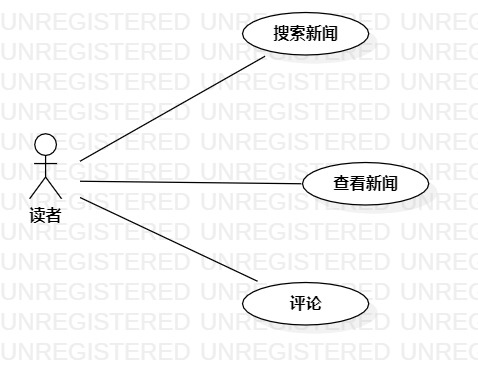
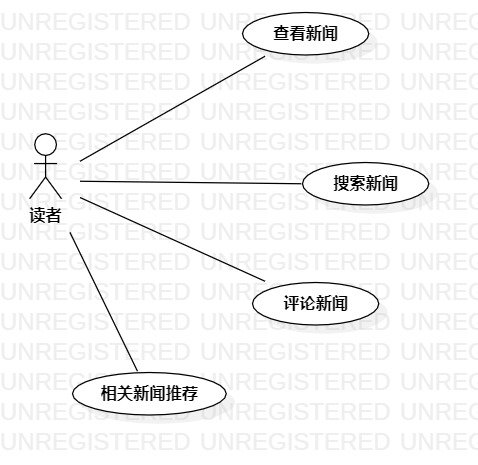
完善实验二

diff --git a/students/1714080902533/lab2.md b/students/1714080902533/lab2.md
@@ -5,15 +5,67 @@
 ## 二、实验内容
 1. 确定个人建模选题，将选题填写在 Issues 中：
 https://github.com/hzuapps/uml-modeling-2020/issues
-2. 画出用例图（Use Case Diagram）
+2. 细化功能需求
+3. 画出用例图（Use Case Diagram）
+4. 编写用例规约
 ## 三、实验步骤
 1. 在 https://github.com/hzuapps/uml-modeling-2020/issues 上提交个人选题
-2. 使用 StarUML 画 Use Case Diagram
+2. 使用 StarUML 画选题的用例图
+3. 编写用例规约
 ## 四、实验结果
-选题：科技新闻集锦
-- 查看新闻概要：展示新闻标题、摘要、发布者、发布时间
-- 关键词搜索相关新闻：使用关键词检索新闻标题，快速找到相应的新闻
-- 评论：在每条新闻下方有一个评论区，读者可以在评论区看到其他人对该条新闻的评论，也可在此发表自己对该条新闻的评论
+选题：科技新闻阅览网页
+1. 查看新闻：显示新闻内容
+2. 搜索新闻：使用关键词检索新闻标题，找到相应的新闻
+3. 评论新闻：在每条新闻下方有一个评论区，读者可以在评论区看到其他人对该条新闻的评论，也可在此发表自己对该条新闻的评论
+4. 相关新闻推荐：显示相关新闻列表
 
-![用例图](https://raw.githubusercontent.com/M-Shine/uml-modeling-2020/master/students/1714080902533/Lab2_UseCaseDiagram1.jpg)  
+![用例图](./Lab2_UseCaseDiagram1.jpg)  
 图1：科技新闻集锦用例图
+
+## 五、用例规约
+### 表1：科技新闻阅览网页用例1规约  
+
+用例编号  | UC01 | 备注  
+-|:-|-  
+用例名称  | 查看新闻 |   
+前置条件  |  |    
+后置条件  | 系统显示新闻详情 |    
+基本流程  | 1. 读者点击新闻链接 |   
+~| 2. 系统获取新闻数据 | 
+~| 3. 系统显示新闻内容 |
+扩展流程  | 2.1 系统检查发现新闻数据不存在，返回新闻列表，提示“链接不存在” |     
+
+### 表2：科技新闻阅览网页用例2规约  
+
+用例编号  | UC02 | 备注  
+-|:-|-  
+用例名称  | 搜索新闻 |   
+前置条件  |  |    
+后置条件  | 显示匹配到的新闻列表 |    
+基本流程  | 1. 读者输入关键词，点击搜索按钮 |    
+~| 2. 系统返回关键词匹配结果 |   
+扩展流程  | 2.1 匹配结果为空，系统提示“未找到相关内容” | 
+
+### 表3：科技新闻阅览网页用例3规约  
+
+用例编号  | UC03 | 备注  
+-|:-|-  
+用例名称  | 评论新闻 |   
+前置条件  | 读者在新闻详情页面 |
+后置条件  | 评论区显示读者发表的评论 |    
+基本流程  | 1. 读者输入评论内容，点击“发表评论”按钮 |    
+~| 2. 系统获取读者登录状态 |
+~| 3. 系统提示“评论成功”，在评论区首条显示读者发表的评论 |   
+扩展流程  | 2.1 系统发现读者未登录，跳转到登录页面 |
+~| 3.1 系统提交评论信息失败，提示“发表评论失败，请重试” | 
+
+### 表4：科技新闻阅览网页用例4规约  
+
+用例编号  | UC04 | 备注  
+-|:-|-  
+用例名称  | 相关新闻推荐 |   
+前置条件  | 读者在新闻详情页面 |
+后置条件  | 显示相关新闻列表 |    
+基本流程  | 1. 系统根据新闻ID获取相关新闻数据 |    
+~| 2. 系统显示相关新闻列表 |
+扩展流程  |  |

diff --git a/students/1714080902533/lab1.md b/students/1714080902533/lab1.md
@@ -4,7 +4,7 @@
 1. 工具安装之后，打开并截图，保存在实验报告中；
 2. 将个人选题及描述写在实验报告中，具体要求：
 + 选题标题为软件名称；
-+ 描述中写出2-3个功能需求（不允许写“注册”和“登录”）；
++ 描述中写出2-3个功能需求（不允许写“注册”和“登录”）
 + 选题功能应该包含数据库的使用。
 3. 实验报告将按照『教学助理』小程序的要求提交（此步骤延后）。
 ## 实验内容
